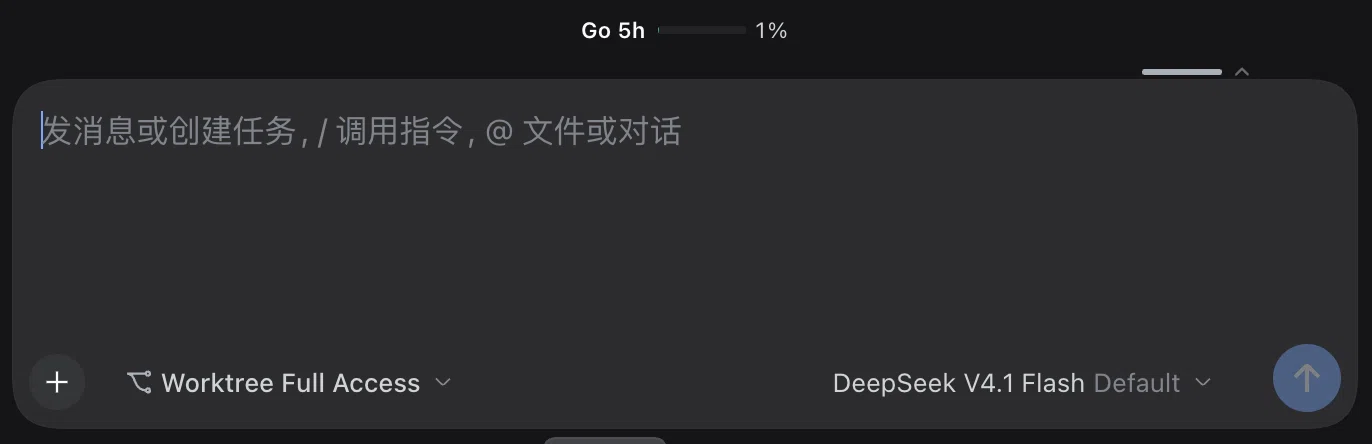
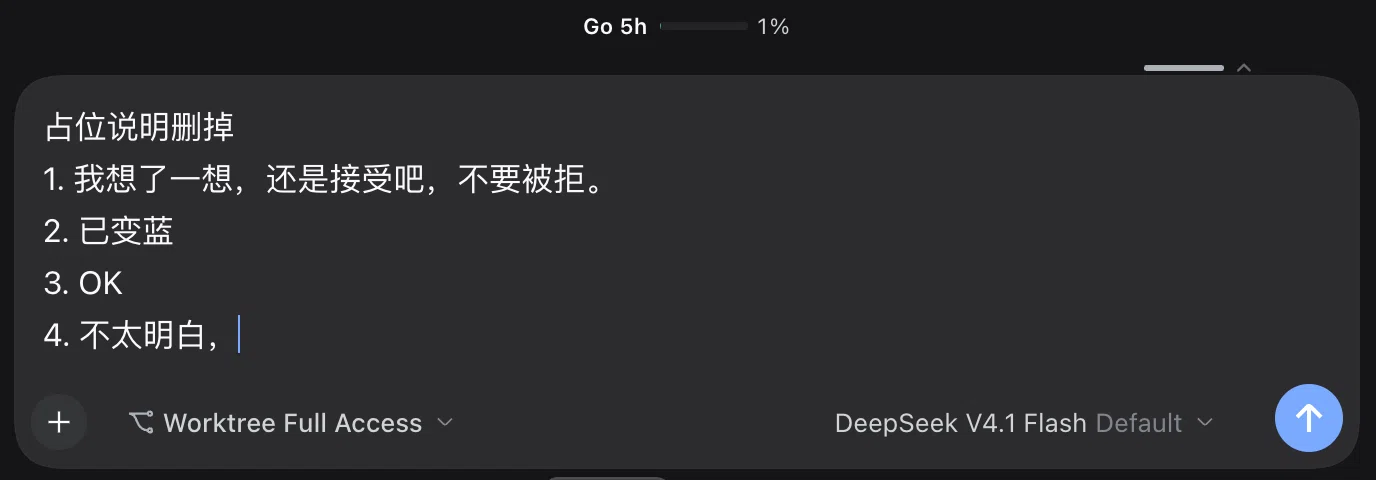
docs(assets): refresh the collapsed multiline screenshot

diff --git a/README.md b/README.md
@@ -20,7 +20,7 @@
 
 ![收起后输入区上沿的细线](assets/screenshot-3-collapsed.png)
 
-![多行模式下收起，仍保留 4 行高度](assets/screenshot-4-collapsed-multiline.png)
+![多行草稿下收起提示，正文仍保留完整高度](assets/screenshot-4-collapsed-multiline.png)
 
 ![设置（Cmd+,）→ 多行输入](assets/screenshot-5-settings.png)
 
